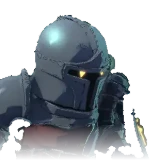
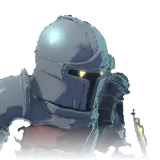
queue q17: the Warden's face lifted, measured [skip ci]
Claude-Session: https://claude.ai/code/session_01F3BVH1ixKfGGeiW1m3oHDi

diff --git a/apps/client/scripts/faceLevels.ts b/apps/client/scripts/faceLevels.ts
@@ -1,0 +1,133 @@
+// The hero buttons' faces measured (q17, docs/ART.md §12 "The heroes' faces"): on the home card at 412 × 839 (4×,
+// reduced motion so nothing moves), for each hero's button picked and not picked, the median lightness (CIE L*) of
+// the bust's opaque pixels as seen, of the button's face behind them (the same pixels with the bust hidden), of the
+// eyes' glow (within 1 CSS px of each measured eye) and of the helm round them (the bust's opaque pixels 2.5 to 5 CSS
+// px from either eye, with the eyes' glow hidden). A bust pixel is opaque where the bust looks the same over the button and over magenta (both
+// at full opacity). Used by `npm run lobby-shots -- --only measure` (lobbyShots.ts), which prints the table and
+// writes it to docs/screenshots/lobby/faces.json.
+
+import type { Page } from '@playwright/test';
+import { decodePng, type Image } from './png';
+
+export interface FaceNumbers {
+  hero: string;
+  picked: boolean;
+  /** Median L* of the bust's opaque pixels, as seen. */
+  bust: number;
+  /** Median L* of the button behind those pixels. */
+  face: number;
+  /** Median L* of the button's own face beside the medallion (2 to 6 CSS px right of it, its middle half). */
+  button: number;
+  /** Median L* of the eyes' glow. */
+  eyes: number;
+  /** Median L* of the helm round the eyes. */
+  helm: number;
+}
+
+const lin = (c: number) => {
+  const v = c / 255;
+  return v <= 0.04045 ? v / 12.92 : ((v + 0.055) / 1.055) ** 2.4;
+};
+
+/** CIE L* of an sRGB pixel. */
+export function lightness(r: number, g: number, b: number): number {
+  const y = 0.2126 * lin(r) + 0.7152 * lin(g) + 0.0722 * lin(b);
+  return y > 216 / 24389 ? 116 * Math.cbrt(y) - 16 : (24389 / 27) * y;
+}
+
+function median(xs: number[]): number {
+  if (!xs.length) return NaN;
+  const s = [...xs].sort((a, b) => a - b);
+  return +s[Math.floor(s.length / 2)]!.toFixed(1);
+}
+
+const at = (img: Image, x: number, y: number) => {
+  const k = (y * img.width + x) * img.channels;
+  return [img.data[k]!, img.data[k + 1]!, img.data[k + 2]!] as const;
+};
+
+/** One button's numbers; `page` shows the home card with reduced motion, `hero`'s button in view. */
+async function measureOne(page: Page, hero: string, scale: number): Promise<FaceNumbers> {
+  const face = page.locator(`#lobby-heroes-home .hero-pick[data-hero="${hero}"] .hero-face`);
+  const picked = await page.locator(`#lobby-heroes-home .hero-pick[data-hero="${hero}"]`).evaluate((b) => b.classList.contains('selected'));
+  const box = (await face.boundingBox())!;
+  // The bust stands out of the medallion's top: take 10 CSS px more above, 6 to each side.
+  const clip = { x: box.x - 6, y: box.y - 10, width: box.width + 20, height: box.height + 10 };
+  const grab = async () => decodePng(await page.screenshot({ clip, type: 'png' }));
+  const style = (css: string) =>
+    page.evaluate(([h, c]) => {
+      let el = document.getElementById('q17-measure');
+      if (!el) {
+        el = document.createElement('style');
+        el.id = 'q17-measure';
+        document.head.append(el);
+      }
+      el.textContent = c!.replaceAll('$H', `#lobby-heroes-home .hero-pick[data-hero="${h}"]`);
+    }, [hero, css] as const);
+  await style('');
+  const seen = await grab();
+  await style('$H .face-eye { display: none }');
+  const bare = await grab();
+  await style('$H .face-bust { visibility: hidden }');
+  const behind = await grab();
+  await style('$H .hero-face { opacity: 1 !important }');
+  const full = await grab();
+  await style('$H, $H .hero-face { opacity: 1 !important; background: #f0f !important; box-shadow: none !important }');
+  const magenta = await grab();
+  await style('');
+  const eyes = await face.locator('.face-eye').evaluateAll((els) =>
+    els.map((e) => {
+      const r = e.getBoundingClientRect();
+      return { x: r.x + r.width / 2, y: r.y + r.height / 2 };
+    }),
+  );
+  const eyePx = eyes.map((e) => ({ x: (e.x - clip.x) * scale, y: (e.y - clip.y) * scale }));
+  const bust: number[] = [];
+  const back: number[] = [];
+  const glow: number[] = [];
+  const helm: number[] = [];
+  for (let y = 0; y < seen.height; y++) {
+    for (let x = 0; x < seen.width; x++) {
+      const [r1, g1, b1] = at(full, x, y);
+      const [r2, g2, b2] = at(magenta, x, y);
+      const opaque = Math.abs(r1 - r2) + Math.abs(g1 - g2) + Math.abs(b1 - b2) <= 6;
+      const l = lightness(...at(seen, x, y));
+      const d = Math.min(...eyePx.map((e) => Math.hypot(x - e.x, y - e.y))) / scale;
+      if (d <= 1) glow.push(l);
+      if (!opaque) continue;
+      bust.push(l);
+      back.push(lightness(...at(behind, x, y)));
+      if (d >= 2.5 && d <= 5) helm.push(lightness(...at(bare, x, y)));
+    }
+  }
+  const plain: number[] = [];
+  for (let y = Math.round(10 * scale + (box.height / 4) * scale); y < Math.round((10 + (box.height * 3) / 4) * scale); y++) {
+    for (let x = Math.round((6 + box.width + 2) * scale); x < Math.round((6 + box.width + 6) * scale); x++) plain.push(lightness(...at(behind, Math.min(x, seen.width - 1), y)));
+  }
+  return { hero, picked, bust: median(bust), face: median(back), button: median(plain), eyes: median(glow), helm: median(helm) };
+}
+
+/** Every hero's button not picked (two picks) and picked, on a page at `scale` device px per CSS px. */
+export async function measureFaces(page: Page, scale: number): Promise<FaceNumbers[]> {
+  const rows: FaceNumbers[] = [];
+  const pick = async (hero: string) => {
+    await page.locator(`#lobby-heroes-home .hero-pick[data-hero="${hero}"]`).click();
+    await page.waitForTimeout(400);
+  };
+  await pick('ranger');
+  rows.push(await measureOne(page, 'ranger', scale), await measureOne(page, 'warden', scale), await measureOne(page, 'arcanist', scale));
+  await pick('warden');
+  rows.push(await measureOne(page, 'ranger', scale), await measureOne(page, 'warden', scale));
+  await pick('arcanist');
+  rows.push(await measureOne(page, 'arcanist', scale));
+  return rows;
+}
+
+/** The table as markdown. */
+export function faceTable(rows: readonly FaceNumbers[]): string {
+  const lines = ['| Hero | Picked | Bust L* | Behind it L* | Bust − behind | Button L* | Bust − button | Eyes L* | Helm L* | Eyes − helm |', '| --- | --- | --- | --- | --- | --- | --- | --- | --- | --- |'];
+  for (const r of rows) {
+    lines.push(`| ${r.hero} | ${r.picked ? 'yes' : 'no'} | ${r.bust} | ${r.face} | ${(r.bust - r.face).toFixed(1)} | ${r.button} | ${(r.bust - r.button).toFixed(1)} | ${r.eyes} | ${r.helm} | ${(r.eyes - r.helm).toFixed(1)} |`);
+  }
+  return lines.join('\n');
+}

diff --git a/apps/client/scripts/lobbyShots.ts b/apps/client/scripts/lobbyShots.ts
@@ -14,6 +14,7 @@ import { existsSync, mkdirSync, readdirSync, rmSync, writeFileSync } from 'node:
 import { join, resolve } from 'node:path';
 import { fileURLToPath } from 'node:url';
 import { chromium, type Browser, type BrowserContext, type Page } from '@playwright/test';
+import { faceTable, measureFaces, type FaceNumbers } from './faceLevels';
 
 const root = resolve(fileURLToPath(import.meta.url), '../..');
 const args = process.argv.slice(2);
@@ -22,7 +23,7 @@ const flag = (name: string) => {
   return at >= 0 ? args[at + 1] : undefined;
 };
 const out = resolve(flag('--out') ?? join(root, '..', '..', 'docs', 'screenshots', 'lobby'));
-const only = new Set((flag('--only') ?? 'home,states,room,faces,clips').split(','));
+const only = new Set((flag('--only') ?? 'home,states,room,faces,measure,clips').split(','));
 const PORT = 4191;
 const BASE = `http://localhost:${PORT}`;
 const BEFORE_PORT = 4193;
@@ -178,6 +179,35 @@ async function shots(browser: Browser): Promise<void> {
   }
 }
 
+/**
+ * The faces' numbers (faceLevels.ts) on the home card at 412 × 839 and 4×, under reduced motion: this build, and with
+ * `--before DIR` that build too, printed and written to faces.json.
+ */
+async function measure(browser: Browser): Promise<void> {
+  const grab = async (base: string): Promise<FaceNumbers[]> => {
+    const ctx = await browser.newContext({ viewport: { width: 412, height: 839 }, deviceScaleFactor: 4, isMobile: true, hasTouch: true, reducedMotion: 'reduce' });
+    const page = await home(ctx, board(10), '/?lobby&daily', base, base === BASE);
+    const rows = await measureFaces(page, 4);
+    await ctx.close();
+    return rows;
+  };
+  const result: Record<string, FaceNumbers[]> = {};
+  if (before) {
+    const server = serve(before, BEFORE_PORT);
+    try {
+      await up(`http://localhost:${BEFORE_PORT}`);
+      result.before = await grab(`http://localhost:${BEFORE_PORT}`);
+    } finally {
+      server.kill();
+    }
+    console.log(`Before\n${faceTable(result.before)}`);
+  }
+  result.after = await grab(BASE);
+  console.log(`After\n${faceTable(result.after)}`);
+  writeFileSync(join(out, 'faces.json'), `${JSON.stringify(result, null, 2)}\n`);
+  console.log('  faces.json');
+}
+
 /** Records `act` in real time at 412 × 839 into `name` (H.264, no sound). */
 async function clip(browser: Browser, name: string, today: unknown, act: (page: Page) => Promise<void>): Promise<void> {
   const dir = join(out, '.video');
@@ -243,6 +273,7 @@ async function main(): Promise<void> {
     const browser = await chromium.launch(process.env.CHROMIUM_PATH ? { executablePath: process.env.CHROMIUM_PATH } : {});
     try {
       await shots(browser);
+      if (only.has('measure')) await measure(browser);
       if (only.has('clips')) await clips(browser);
     } finally {
       await browser.close();

diff --git a/apps/client/scripts/heroPortraits.ts b/apps/client/scripts/heroPortraits.ts
@@ -25,6 +25,9 @@ const SIDE = 160;
 /** The most a picture may weigh. */
 const MAX_BYTES = 12 * 1024;
 
+/** The Warden's lift (q17, docs/ART.md §12): his iron a step lighter, so he stands off the button as the others do. */
+const LIFT_WARDEN: Lift = { gamma: 0.72, gain: 1.02 };
+
 /**
  * Each hero's square on his poster (2400 × 900 px, the stage's video frame): the head and the tops of the shoulders,
  * the face centred, his silhouette piece inside. `eyes`: where to look for the two glowing eyes (a box on the poster),
@@ -32,11 +35,18 @@ const MAX_BYTES = 12 * 1024;
  */
 const HEROES = {
   ranger: { square: { x: 1080, y: 296, side: 300 }, eyes: { x0: 1240, y0: 440, x1: 1320, y1: 500 } },
-  warden: { square: { x: 1092, y: 316, side: 300 }, eyes: { x0: 1215, y0: 430, x1: 1300, y1: 475 } },
+  // q17: his slate iron read as a dark shape on the slate button, so his cut alone is lifted (his poster untouched).
+  warden: { square: { x: 1092, y: 316, side: 300 }, eyes: { x0: 1215, y0: 430, x1: 1300, y1: 475 }, lift: LIFT_WARDEN },
   arcanist: { square: { x: 1110, y: 320, side: 300 }, eyes: { x0: 1225, y0: 430, x1: 1310, y1: 485 } },
 } as const;
 
 type Kind = keyof typeof HEROES;
+
+/** A hero's levels: each colour channel as (c / 255)^gamma, times gain (q17). */
+interface Lift {
+  gamma: number;
+  gain: number;
+}
 
 const PAGE_JS = String.raw`
 window.portrait = async (spec) => {
@@ -48,6 +58,17 @@ window.portrait = async (spec) => {
   const pad = 24;
   const box = { x0: q.x - pad, y0: q.y - pad, x1: q.x + q.side + pad, y1: Math.min(900, q.y + q.side + pad) };
   const { figure } = window.heroCut(poster, clearing, box);
+  if (spec.lift) {
+    const fg = figure.getContext('2d');
+    const img = fg.getImageData(0, 0, figure.width, figure.height);
+    const d = img.data;
+    const { gamma, gain } = spec.lift;
+    for (let k = 0; k < d.length; k += 4) {
+      if (d[k + 3] === 0) continue;
+      for (let c = 0; c < 3; c++) d[k + c] = Math.min(255, Math.round(255 * gain * Math.pow(d[k + c] / 255, gamma)));
+    }
+    fg.putImageData(img, 0, 0);
+  }
   const c = document.createElement('canvas');
   c.width = c.height = side;
   const g = c.getContext('2d');
@@ -124,6 +145,7 @@ async function main(): Promise<void> {
         clearing: data(join(stage, 'clearing.webp')),
         square: h.square,
         eyes: h.eyes,
+        lift: 'lift' in h ? h.lift : null,
         side: SIDE,
       })) as { check: string; eyes: { x: number; y: number; px: number }[]; edge: number; webp: { q: number; url: string }[] };
       if (check) writeFileSync(join(out, `${kind}-check.png`), Buffer.from(res.check.split(',')[1]!, 'base64'));

diff --git a/apps/client/src/style.css b/apps/client/src/style.css
@@ -2614,6 +2614,9 @@ body.layout-tall:has(#tutorial:not(.hidden)):has(#match-flags:not(.hidden)) .air
   --tone: 255, 162, 74;
   --breath: 4.4s;
   --phase: -1.3s;
+  /* q17 (docs/ART.md §12): his lifted iron (the portrait's levels) stands on a deeper ember than the others' discs, so
+     he reads as a light shape on a dark ground, not slate on slate. */
+  background: radial-gradient(circle at 50% 38%, rgba(var(--tone), 0.1), rgba(var(--tone), 0.04) 62%, rgba(8, 12, 14, 0.96) 100%), rgba(10, 12, 16, 0.55);
 }
 
 .hero-face[data-face='arcanist'] {
@@ -2733,6 +2736,19 @@ body.layout-tall:has(#tutorial:not(.hidden)):has(#match-flags:not(.hidden)) .air
 
 .hero-face[data-face='warden'] .face-eye::after {
   animation-duration: 5.9s;
+}
+
+/* q17: his visor's slits glow brighter and wider than the hoods' eyes, so they stay lit over the lifted iron. */
+.hero-face[data-face='warden'] .face-eye::before {
+  inset: -2.5px;
+  background: radial-gradient(circle, rgba(255, 250, 220, 1), rgba(var(--eye), 0.8) 45%, transparent 72%);
+  opacity: 0.7;
+  animation-name: face-glow-visor;
+}
+
+@keyframes face-glow-visor {
+  0%, 100% { opacity: 0.65; }
+  50% { opacity: 1; }
 }
 
 .hero-face[data-face='arcanist'] .face-eye {
